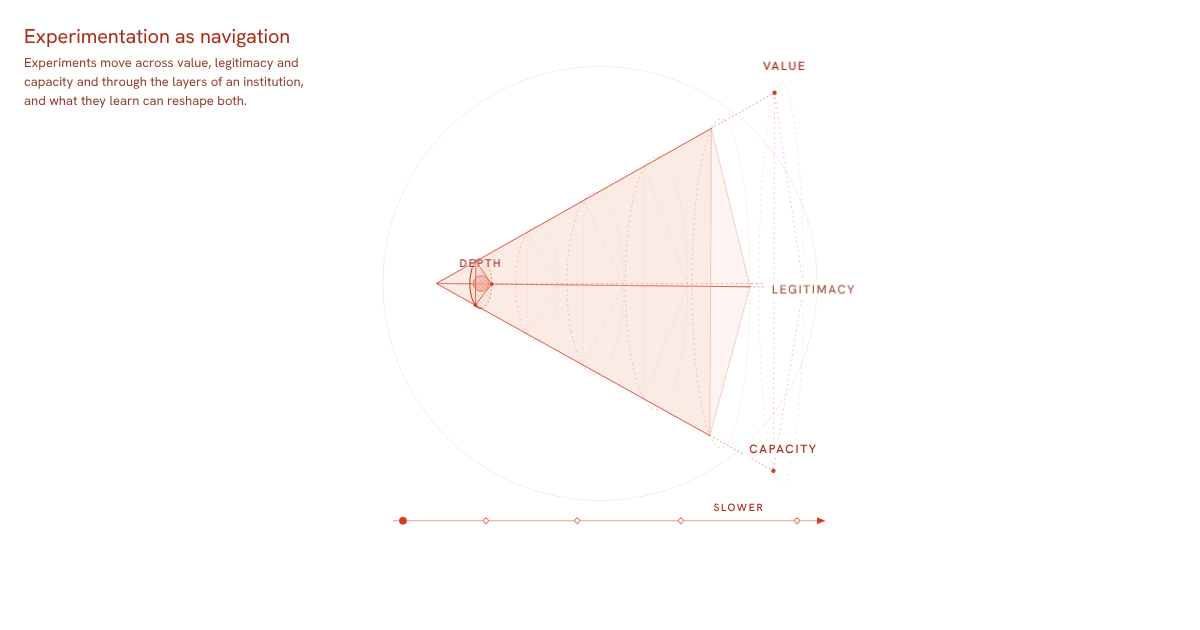
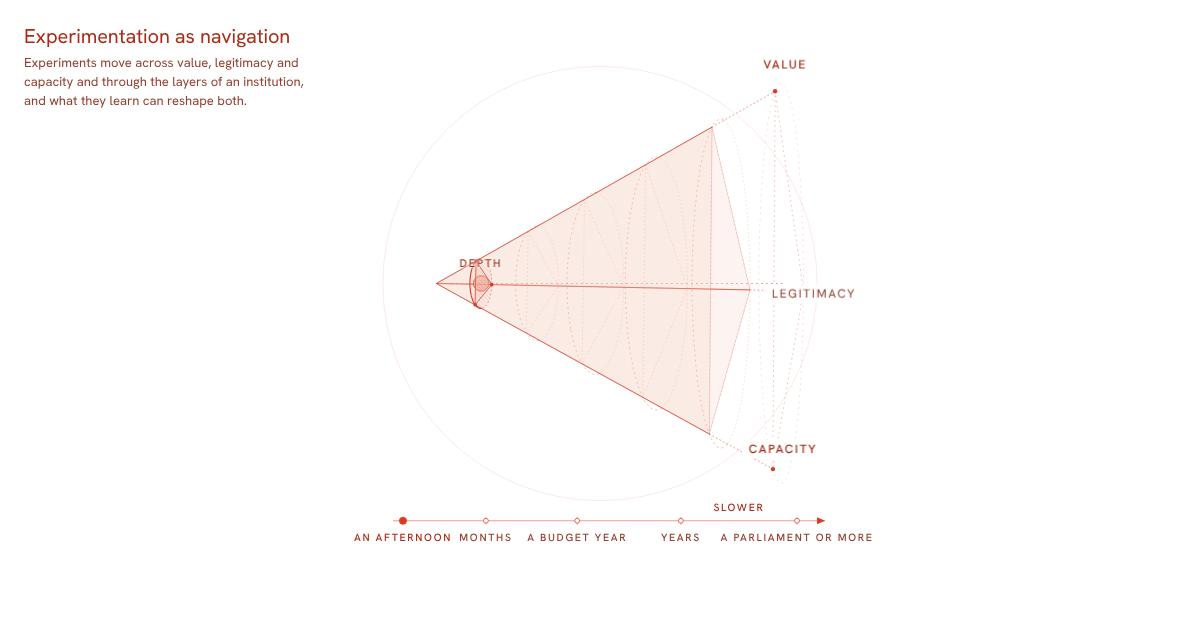
Put layer names back on the rings, leave the ruler to pace
The pace scale now carries only the pace words, with the current layer's
word in the darker ink. Layer names sit under their rings again with a
paper halo, and fade with the ruler end on, where they would stack up.

Claude-Session: https://claude.ai/code/session_01Ed2Ec9Yoie7vScgGFT9Sup

diff --git a/prototypes/navigation/index.html b/prototypes/navigation/index.html
@@ -158,8 +158,7 @@
     will-change: transform;
     transition: opacity .3s;
   }
-  .layer-btn b { display: block; margin-bottom: 3px; font-size: 10.5px; font-weight: 500; letter-spacing: .14em; text-transform: uppercase; color: var(--ink-text); white-space: nowrap; }
-  .layer-btn span { display: block; }
+  .layer-btn span { display: block; text-shadow: 0 0 3px var(--paper), 0 0 2px var(--paper), 0 0 1px var(--paper); }
   .layer-btn[aria-pressed="true"] span { color: var(--ink-text); font-weight: 500; }
 
   /* The pace scale under the drawing */
@@ -168,7 +167,8 @@
   .scale-tick { stroke: var(--ink); stroke-width: .5; }
   .scale-dot { fill: var(--paper); stroke: var(--ink); stroke-width: .75; }
   .scale-dot.reached { fill: var(--ink); }
-  .scale-word { fill: var(--ink-text); font-family: var(--font); font-size: 10.5px; font-weight: 500; letter-spacing: .16em; }
+  .scale-word { fill: var(--muted); font-family: var(--font); font-size: 10.5px; font-weight: 500; letter-spacing: .16em; }
+  .scale-word.on, .scale-slow { fill: var(--ink-text); }
   .layer-btn:focus-visible { outline: 2px solid var(--focus); outline-offset: 2px; }
 
   /* Corner furniture */
@@ -266,8 +266,10 @@
     .question { font-size: 17px; }
     .turned { display: none; }
     .corner small { display: none; }
-    .layer-btn span, .layer-btn b { display: none; }
-    .layer-btn[aria-pressed="true"] span, .layer-btn[aria-pressed="true"] b { display: block; }
+    .layer-btn span { display: none; }
+    .layer-btn[aria-pressed="true"] span { display: block; }
+    .scale-word:not(.scale-slow) { display: none; }
+    .scale-word.on { display: inline; }
     .about { right: 8px; bottom: max(14px, env(safe-area-inset-bottom, 0px)); }
     .ctrl { left: 8px; transform: none; justify-content: flex-start; max-width: calc(100% - 80px); bottom: max(14px, env(safe-area-inset-bottom, 0px)); }
     .ctrl .wide { display: none; }
@@ -339,7 +341,7 @@
   </header>
 
   <div class="meta">
-    <span class="v">v0.6.0</span>
+    <span class="v">v0.6.1</span>
     <button type="button" class="t" id="theme">Dark</button>
   </div>
 
@@ -366,7 +368,7 @@
     <div class="panel">
       <p>A working sketch from <a href="https://www.civicworks.co/">CIVICWORKS</a>, to sit alongside <a href="https://www.civicworks.co/">Tasting the organisational treacle</a>. Drag it any way to turn it, or flick it to set it tumbling. Left alone, it drifts. What it turns up reshapes the drawing.</p>
       <p>Value, legitimacy and capacity after <a href="https://www.hks.harvard.edu/publications/creating-public-value-core-idea-strategic-management-government">Mark Moore</a>. Pace layers after <a href="https://longnow.org/ideas/pace-layers/">Stewart Brand</a>. Scales of a system after <a href="https://link.springer.com/chapter/10.1007/978-3-031-78357-9_2">Hill and Melander</a>. Dark matter from Bryan Boyer.</p>
-      <p>v0.6.0</p>
+      <p>v0.6.1</p>
     </div>
   </details>
 </main>
@@ -635,8 +637,7 @@
     b.className = "layer-btn";
     b.setAttribute("aria-label", name);
     b.setAttribute("aria-label", name + ", " + PACE[i].toLowerCase());
-    b.innerHTML = "<b></b><span></span>";
-    b.querySelector("b").textContent = PACE[i];
+    b.innerHTML = "<span></span>";
     b.querySelector("span").textContent = name;
     b.addEventListener("click", function () { input(); touch(); setLayer(i); });
     layersEl.appendChild(b);
@@ -646,10 +647,15 @@
   var gScale = document.getElementById("g-scale");
   var scaleLine = el("line", { "class": "scale-line" }, gScale);
   var scaleHead = el("path", { "class": "scale-head" }, gScale);
-  var scaleWord = el("text", { "class": "scale-word", "text-anchor": "middle" }, gScale);
+  var scaleWord = el("text", { "class": "scale-word scale-slow", "text-anchor": "middle" }, gScale);
   scaleWord.textContent = "SLOWER";
   var scaleTicks = LAYER_Y.map(function () { return el("line", { "class": "scale-tick" }, gScale); });
   var scaleDots = LAYER_Y.map(function () { return el("circle", { "class": "scale-dot", r: 2.4 }, gScale); });
+  var scaleWords = PACE.map(function (w) {
+    var t = el("text", { "class": "scale-word", "text-anchor": "middle" }, gScale);
+    t.textContent = w.toUpperCase();
+    return t;
+  });
 
   function sphereRadius() { return state.found.length ? 0.16 + state.found.length * 0.042 : 0.1; }
 
@@ -708,6 +714,9 @@
       var low = pts[0];
       for (var k = 1; k < pts.length; k++) if (pts[k].y > low.y) low = pts[k];
       lows[i] = low;
+      var b = layerBtns[i];
+      place(b, low.x - b.offsetWidth / 2, low.y + 8);
+      b.setAttribute("aria-pressed", String(i === state.layer));
     });
 
     // The pace scale: a ruler just below the drawing, a little wider than the cone, read from the
@@ -729,12 +738,13 @@
       scaleDots[i].setAttribute("cx", x); scaleDots[i].setAttribute("cy", baseY);
       scaleDots[i].setAttribute("r", i === state.layer ? 3.6 : 2.4);
       scaleDots[i].setAttribute("class", "scale-dot" + (state.reached[i] ? " reached" : ""));
+      scaleWords[i].setAttribute("x", x); scaleWords[i].setAttribute("y", baseY + 20);
+      scaleWords[i].setAttribute("class", "scale-word" + (i === state.layer ? " on" : ""));
+      // names on the rings stack up end on, so they go when the ruler goes
       var b = layerBtns[i];
-      place(b, x - b.offsetWidth / 2, baseY + 10);
       b.style.opacity = vis;
       b.style.pointerEvents = vis < 0.3 ? "none" : "";
       b.tabIndex = vis < 0.3 ? -1 : 0;
-      b.setAttribute("aria-pressed", String(i === state.layer));
     });
 
     // Faces, edges, the sphere and the active triangle, painted back to front

diff --git a/prototypes/README.md b/prototypes/README.md
@@ -6,7 +6,7 @@ Only this folder is published, by `.github/workflows/pages.yml`, on any push to 
 
 ## What is here
 
-**[navigation/](navigation/)** goes with *Tasting the organisational treacle*. A 3D sketch on one screen. The cone lies on its side, narrow citizen end on the left, and drifts on its own when left alone. Drag it any way, trackball style, and it turns all the way round in that direction; flick it and it tumbles, slows, then brings the nearest of six faces round (value, legitimacy, capacity and the edges between them). A note points at whatever is facing you. A dotted trail records where the experiment has settled, and each thing it turns up swells that layer and stretches that corner of the triangle, which keeps its straight edges, so the drawing ends up a different shape from the one it started as. A pace scale sits just below the drawing like a ruler, reading from an afternoon to a parliament or more; it holds still while the model turns and fades end on. End on, the three questions show under their corners. `og.png` is the share image. One self-contained HTML file, no libraries. Earlier versions are kept as snapshots, [v0.1.0](navigation/v0.1.0/), [v0.2.0](navigation/v0.2.0/), [v0.3.0](navigation/v0.3.0/), [v0.4.0](navigation/v0.4.0/) and [v0.5.0](navigation/v0.5.0/).
+**[navigation/](navigation/)** goes with *Tasting the organisational treacle*. A 3D sketch on one screen. The cone lies on its side, narrow citizen end on the left, and drifts on its own when left alone. Drag it any way, trackball style, and it turns all the way round in that direction; flick it and it tumbles, slows, then brings the nearest of six faces round (value, legitimacy, capacity and the edges between them). A note points at whatever is facing you. A dotted trail records where the experiment has settled, and each thing it turns up swells that layer and stretches that corner of the triangle, which keeps its straight edges, so the drawing ends up a different shape from the one it started as. Layer names sit under their rings, and a pace scale sits just below the drawing like a ruler, reading from an afternoon to a parliament or more; it holds still while the model turns, and both fade end on. End on, the three questions show under their corners. `og.png` is the share image. One self-contained HTML file, no libraries. Earlier versions are kept as snapshots, [v0.1.0](navigation/v0.1.0/), [v0.2.0](navigation/v0.2.0/), [v0.3.0](navigation/v0.3.0/), [v0.4.0](navigation/v0.4.0/) and [v0.5.0](navigation/v0.5.0/).
 
 ## Rules
 
